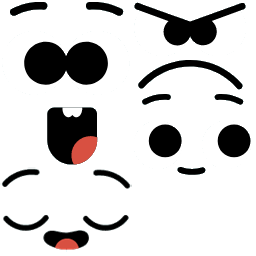
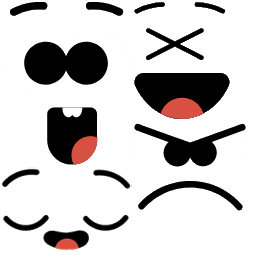
balance it fix sikit graphics layout

Changed region(s): [[0.5, 0.0, 1.0, 0.8438]]

diff --git a/ExportBalanceIt/data.js b/ExportBalanceIt/data.js
@@ -1,1 +1,1 @@
-{"project": [null,null,[[0,true,false,false,false,false,false,false,false,false],[1,false,true,true,true,true,true,true,true,true],[2,false,true,true,true,true,true,true,true,false],[3,false,true,true,true,true,true,true,true,false]],[["t0",2,false,[],0,0,null,[["Default",0,false,1,0,false,478299772580185,[["images/sprite-sheet0.png",73643,1,1,994,326,1,0.5,0.5,[],[],0],["images/sprite-sheet0.png",73643,501,677,169,169,1,0.5029585957527161,0.5029585957527161,[],[],0],["images/sprite-sheet0.png",73643,704,329,312,105,1,0.5,0.5047619342803955,[],[],0],["images/sprite-sheet0.png",73643,501,565,382,110,1,0.5,0.5,[],[],0],["images/sprite-sheet0.png",73643,1,565,498,281,1,0.5,0.5017793774604797,[],[],0],["images/sprite-sheet0.png",73643,1,329,701,234,1,0.5007132887840271,0.5,[],[],0]]]],[],false,false,167842222944082,[],null],["t1",3,false,[],0,0,null,null,[],false,false,410080740830842,[],null],["t2",0,false,[],0,0,null,null,[],false,false,297757167382111,[],null,[1]],["t3",2,false,[],2,0,null,[["Default",0,false,1,0,false,299663204428463,[["images/shape-sheet1.png",2192,1,1,313,105,1,0.5015974640846252,0.5047619342803955,[],[],0],["images/shape-sheet0.png",2313,347,1,156,155,1,0.5,0.5032258033752441,[],[],0],["images/shape-sheet1.png",2192,257,237,168,168,1,0.5,0.5,[],[-0.3511904776096344,-0.3511904776096344,0,-0.494047611951828,0.351190447807312,-0.3511904776096344,0.4940476417541504,0,0.351190447807312,0.351190447807312,0,0.4940476417541504,-0.3511904776096344,0.351190447807312,-0.494047611951828,0],0],["images/shape-sheet0.png",2313,214,1,131,306,1,0.5038167834281921,0.5,[],[],0],["images/shape-sheet0.png",2313,249,309,180,188,1,0.5,0.5,[],[],0],["images/shape-sheet0.png",2313,1,1,211,211,1,0.5023696422576904,0.5023696422576904,[],[-0.5023696422576904,-0.2180094420909882,-0.2180094420909882,-0.5023696422576904,0.2085307836532593,-0.5023696422576904,0.4976303577423096,-0.2180094420909882,0.4976303577423096,0.2085308432579041,0.2085308432579041,0.4976303577423096,-0.2180094420909882,0.4976303577423096,-0.5023696422576904,0.2085308432579041],0],["images/shape-sheet0.png",2313,1,309,246,140,1,0.5,0.5,[],[-0.2560976147651672,-0.5,0.2317074537277222,-0.5,0.5,0.5,-0.5,0.5],0],["images/shape-sheet1.png",2192,1,108,254,128,1,0.5,0.5,[],[-0.02755892276763916,-0.5,0.5,0.5,-0.5,0.5],0],["images/shape-sheet1.png",2192,257,108,253,127,1,0.5019763112068176,0.5039370059967041,[],[-0.5019763112068176,-0.5039370059967041,0.4980236887931824,-0.5039370059967041,0.01185756921768189,0.4960629940032959],0]]]],[["Physics",4,742213673293796],["DestroyOutsideLayout",5,821390267635051]],false,false,989745464851082,[],null],["t4",2,false,[],2,0,null,[["Default",0,false,1,0,false,417353779801979,[["images/faces-sheet1.png",7095,1,1,128,84,1,0.5,0.5,[],[],0],["images/faces-sheet0.png",11752,133,1,114,90,1,0.5,0.5,[],[],0],["images/faces-sheet0.png",11752,133,93,119,83,1,0.5042017102241516,0.5060241222381592,[],[],0],["images/faces-sheet1.png",7095,131,1,100,83,1,0.5,0.5060241222381592,[],[],0],["images/faces-sheet1.png",7095,131,86,70,86,1,0.5,0.5,[],[],0],["images/faces-sheet0.png",11752,1,168,130,83,1,0.5,0.5060241222381592,[],[],0],["images/faces-sheet0.png",11752,1,1,130,165,1,0.5,0.5030303001403809,[],[],0]]]],[["Pin",6,680793569707709],["DestroyOutsideLayout",5,712269904767727]],false,false,891090274573127,[],null],["t5",1,false,[],1,0,["images/tile.png",94,1],null,[["Physics",4,535847611371095]],false,false,777339235750981,[],null],["t6",1,false,[],0,0,["images/garisan.png",914,0],null,[],false,false,417810638556478,[],null]],[],[["Faces",1080,1920,false,"Faces",621882837171742,[["Layer 0",0,660128441753789,true,[203,225,225],false,1,1,1,false,false,1,0,0,[[[300,236,0,313,105,0,0,1,0.5015974640846252,0.5047619342803955,0,0,[]],3,8,[],[[0,0,0,1,0.5,0.2,0,0.01,0,1],[]],[0,"Default",0,1]],[[300,236,0,114,90,0,0,1,0.5,0.5,0,0,[]],4,9,[],[[],[]],[0,"Default",1,1]],[[366,518,0,156,155,0,0,1,0.5,0.5032258033752441,0,0,[]],3,10,[],[[0,0,0,1,0.5,0.2,0,0.01,0,1],[]],[0,"Default",1,1]],[[673,418,0,168,168,0,0,1,0.5,0.5,0,0,[]],3,11,[],[[0,0,0,1,0.5,0.2,0,0.01,0,1],[]],[0,"Default",2,1]],[[210,871,0,131,306,0,0,1,0.5038167834281921,0.5,0,0,[]],3,12,[],[[0,0,0,1,0.5,0.2,0,0.01,0,1],[]],[0,"Default",3,1]],[[570,936,0,180,188,0,0,1,0.5,0.5,0,0,[]],3,13,[],[[0,0,0,1,0.5,0.2,0,0.01,0,1],[]],[0,"Default",4,1]],[[860,768,0,211,211,0,0,1,0.5023696422576904,0.5023696422576904,0,0,[]],3,14,[],[[0,0,0,1,0.5,0.2,0,0.01,0,1],[]],[0,"Default",5,1]],[[241,1272,0,246,140,0,0,1,0.5,0.5,0,0,[]],3,15,[],[[0,0,0,1,0.5,0.2,0,0.01,0,1],[]],[0,"Default",6,1]],[[587,1444,0,254,128,0,0,1,0.5,0.5,0,0,[]],3,16,[],[[0,0,0,1,0.5,0.2,0,0.01,0,1],[]],[0,"Default",7,1]],[[907,1245,0,253,127,0,0,1,0.5019763112068176,0.5039370059967041,0,0,[]],3,17,[],[[0,0,0,1,0.5,0.2,0,0.01,0,1],[]],[0,"Default",8,1]],[[364,525,0,128,84,0,0,1,0.5,0.5,0,0,[]],4,18,[],[[],[]],[0,"Default",0,1]],[[673,418,0,119,83,0,0,1,0.5042017102241516,0.5060241222381592,0,0,[]],4,19,[],[[],[]],[0,"Default",2,1]],[[211,868,0,100,83,0,0,1,0.5,0.5060241222381592,0,0,[]],4,20,[],[[],[]],[0,"Default",3,1]],[[571,939,0,102.5806579589844,126.0276641845703,0,0,1,0.5,0.5,0,0,[]],4,21,[],[[],[]],[0,"Default",4,1]],[[242,1271,0,130,83,0,0,1,0.5,0.5060241222381592,0,0,[]],4,22,[],[[],[]],[0,"Default",5,1]],[[860,768,0,130,165,0,0,1,0.5,0.5030303001403809,0,0,[]],4,23,[],[[],[]],[0,"Default",6,1]],[[591,1459,0,128,84,0,0,1,0.5,0.5,0,0,[]],4,24,[],[[],[]],[0,"Default",0,1]],[[903,1229,0,130,83,0,0,1,0.5,0.5060241222381592,0,0,[]],4,25,[],[[],[]],[0,"Default",5,1]],[[-2,1697,0,1086,125,0,0,1,0,0,0,0,[]],5,26,[],[[1,0,0,1,0.5,0.2,0,0.01,0,1]],[0,0]],[[-5,1087,0,1127,-13,0,0,1,0,0,0,0,[]],6,28,[],[],[0,0]]],[]]],[],[]],["Level1",1080,1920,false,"Level1",387571350901243,[["Layer 0",0,550311674019265,true,[203,225,225],false,1,1,1,false,false,1,0,0,[[[300,236,0,313,105,0,0,1,0.5015974640846252,0.5047619342803955,0,0,[]],3,29,[],[[0,0,0,1,0.5,0.2,0,0.01,0,1],[]],[0,"Default",0,1]],[[300,236,0,114,90,0,0,1,0.5,0.5,0,0,[]],4,30,[],[[],[]],[0,"Default",1,1]],[[366,518,0,156,155,0,0,1,0.5,0.5032258033752441,0,0,[]],3,31,[],[[0,0,0,1,0.5,0.2,0,0.01,0,1],[]],[0,"Default",1,1]],[[673,418,0,168,168,0,0,1,0.5,0.5,0,0,[]],3,32,[],[[0,0,0,1,0.5,0.2,0,0.01,0,1],[]],[0,"Default",2,1]],[[210,871,0,131,306,0,0,1,0.5038167834281921,0.5,0,0,[]],3,33,[],[[0,0,0,1,0.5,0.2,0,0.01,0,1],[]],[0,"Default",3,1]],[[570,936,0,180,188,0,0,1,0.5,0.5,0,0,[]],3,34,[],[[0,0,0,1,0.5,0.2,0,0.01,0,1],[]],[0,"Default",4,1]],[[860,768,0,211,211,0,0,1,0.5023696422576904,0.5023696422576904,0,0,[]],3,35,[],[[0,0,0,1,0.5,0.2,0,0.01,0,1],[]],[0,"Default",5,1]],[[241,1272,0,246,140,0,0,1,0.5,0.5,0,0,[]],3,36,[],[[0,0,0,1,0.5,0.2,0,0.01,0,1],[]],[0,"Default",6,1]],[[587,1444,0,254,128,0,0,1,0.5,0.5,0,0,[]],3,37,[],[[0,0,0,1,0.5,0.2,0,0.01,0,1],[]],[0,"Default",7,1]],[[907,1245,0,253,127,0,0,1,0.5019763112068176,0.5039370059967041,0,0,[]],3,38,[],[[0,0,0,1,0.5,0.2,0,0.01,0,1],[]],[0,"Default",8,1]],[[364,525,0,128,84,0,0,1,0.5,0.5,0,0,[]],4,39,[],[[],[]],[0,"Default",0,1]],[[673,418,0,119,83,0,0,1,0.5042017102241516,0.5060241222381592,0,0,[]],4,40,[],[[],[]],[0,"Default",2,1]],[[211,868,0,100,83,0,0,1,0.5,0.5060241222381592,0,0,[]],4,41,[],[[],[]],[0,"Default",3,1]],[[571,939,0,102.5806579589844,126.0276641845703,0,0,1,0.5,0.5,0,0,[]],4,42,[],[[],[]],[0,"Default",4,1]],[[242,1271,0,130,83,0,0,1,0.5,0.5060241222381592,0,0,[]],4,43,[],[[],[]],[0,"Default",5,1]],[[860,768,0,130,165,0,0,1,0.5,0.5030303001403809,0,0,[]],4,44,[],[[],[]],[0,"Default",6,1]],[[591,1459,0,128,84,0,0,1,0.5,0.5,0,0,[]],4,45,[],[[],[]],[0,"Default",0,1]],[[903,1229,0,130,83,0,0,1,0.5,0.5060241222381592,0,0,[]],4,46,[],[[],[]],[0,"Default",5,1]],[[-2,1697,0,1086,125,0,0,1,0,0,0,0,[]],5,47,[],[[1,0,0,1,0.5,0.2,0,0.01,0,1]],[0,0]],[[-5,1087,0,1127,-13,0,0,1,0,0,0,0,[]],6,48,[],[],[0,0]]],[]]],[],[]],["MainMenu",1080,1920,false,"MainMenu",8873350371196689,[["Layer 0",0,8722530541249526,true,[203,225,225],false,1,1,1,false,false,1,0,0,[[[555,196,0,1415.026489257813,464.0831604003906,0,0,1,0.5,0.5,0,0,[]],0,0,[],[],[0,"Default",0,1]],[[207,1260,0,169,169,0,0,1,0.5029585957527161,0.5029585957527161,0,0,[]],0,1,[],[],[0,"Default",1,1]],[[204,977,0,312,105,0,0,1,0.5,0.5047619342803955,0,0,[]],0,2,[],[],[0,"Default",2,1]],[[704,812,0,498,281,0,0,1,0.5,0.5017793774604797,0,0,[]],0,3,[],[],[0,"Default",4,1]],[[758,1269,0,382,110,0,0,1,0.5,0.5,0,0,[]],0,4,[],[],[0,"Default",3,1]],[[539.307373046875,1741.212036132813,0,1086.72412109375,362.7581176757813,0,0,1,0.5007132887840271,0.5,0,0,[]],0,5,[],[],[0,"Default",5,1]],[[525,173,0,846.5878295898438,212.2024536132813,0,0,1,0.5,0.5,0,0,[]],1,6,[],[],["Balance It !",0,"60pt Franklin Gothic Heavy","rgb(255,255,255)",1,1,4,0,0]],[[273,1695,0,550,125,0,0,0.300000011920929,0,0,0,0,[]],5,27,[],[[1,0,0,1,0.5,0.2,0,0.01,0,1]],[0,0]]],[]]],[],[]]],[["MainMenu",[[0,null,false,null,707810541353011,[[2,7,null,1,false,false,false,834810981230721,false,[[4,0]]]],[[-1,8,null,164909783569268,false,[[6,"Faces"]]]]]]],["Faces",[[0,null,false,null,312350764040079,[[-1,9,null,1,false,false,false,955212199994108,false]],[],[[0,null,false,null,175238460057896,[[-1,10,null,0,true,false,false,643504744679145,false,[[4,4]]],[3,11,null,0,false,false,true,176987904773982,false,[[3,0],[0,[20,4,12,false,null]],[0,[20,4,13,false,null]]]]],[[4,14,"Pin",929214376768151,false,[[4,3],[3,0]]]]]]],[0,null,false,null,210750942512576,[[2,15,null,1,false,false,false,996071127838632,false],[6,16,null,0,false,false,false,609902321197275,false,[[8,4],[0,[20,2,17,false,null]]]]],[[-1,18,null,318795026597332,false,[[4,3],[5,[0,0]],[0,[20,2,19,false,null]],[0,[20,2,17,false,null]]]],[3,20,null,811442251122507,false,[[0,[19,21,[[19,22,[[0,0],[20,3,23,false,null]]]]]]]],[3,24,null,257243971573692,false,[[4,4],[5,[0,0]],[7,[0,0]]]],[4,14,"Pin",742498537828942,false,[[4,3],[3,0]]],[4,20,null,363990873144709,false,[[0,[19,21,[[19,22,[[0,0],[20,4,23,false,null]]]]]]]]]]]],["Level1",[]]],[],"media/",false,1080,1920,4,true,true,true,"1.0.0.0",true,false,0,1,49,false,true,1,true,"Balance It",0,[]]}
+{"project": [null,"MainMenu",[[0,false,true,true,true,true,true,true,true,false],[1,false,true,true,true,true,true,true,true,true],[2,false,true,true,true,true,true,true,true,false],[3,true,false,false,false,false,false,false,false,false]],[["t0",2,false,[],0,0,null,[["Default",0,false,1,0,false,478299772580185,[["images/sprite-sheet0.png",73643,1,1,994,326,1,0.5,0.5,[],[],0],["images/sprite-sheet0.png",73643,501,677,169,169,1,0.5029585957527161,0.5029585957527161,[],[],0],["images/sprite-sheet0.png",73643,704,329,312,105,1,0.5,0.5047619342803955,[],[],0],["images/sprite-sheet0.png",73643,501,565,382,110,1,0.5,0.5,[],[],0],["images/sprite-sheet0.png",73643,1,565,498,281,1,0.5,0.5017793774604797,[],[],0],["images/sprite-sheet0.png",73643,1,329,701,234,1,0.5007132887840271,0.5,[],[],0]]]],[],false,false,167842222944082,[],null],["t1",0,false,[],0,0,null,null,[],false,false,410080740830842,[],null],["t2",3,false,[],0,0,null,null,[],false,false,297757167382111,[],null,[1]],["t3",2,false,[],2,0,null,[["Default",0,false,1,0,false,299663204428463,[["images/shape-sheet1.png",2192,1,1,313,105,1,0.5015974640846252,0.5047619342803955,[],[],0],["images/shape-sheet0.png",2313,347,1,156,155,1,0.5,0.5032258033752441,[],[],0],["images/shape-sheet1.png",2192,257,237,168,168,1,0.5,0.5,[],[-0.3511900007724762,-0.3511900007724762,0,-0.494047611951828,0.3511899709701538,-0.3511900007724762,0.494047999382019,0,0.3511899709701538,0.3511899709701538,0,0.494047999382019,-0.3511900007724762,0.3511899709701538,-0.494047611951828,0],0],["images/shape-sheet0.png",2313,214,1,131,306,1,0.5038167834281921,0.5,[],[],0],["images/shape-sheet0.png",2313,249,309,180,188,1,0.5,0.5,[],[],0],["images/shape-sheet0.png",2313,1,1,211,211,1,0.5023696422576904,0.5023696422576904,[],[-0.5023696422576904,-0.2180096507072449,-0.2180096507072449,-0.5023696422576904,0.2085303664207459,-0.5023696422576904,0.4976303577423096,-0.2180096507072449,0.4976303577423096,0.2085303664207459,0.2085303664207459,0.4976303577423096,-0.2180096507072449,0.4976303577423096,-0.5023696422576904,0.2085303664207459],0],["images/shape-sheet0.png",2313,1,309,246,140,1,0.5,0.5,[],[-0.2560980021953583,-0.5,0.231706976890564,-0.5,0.5,0.5,-0.5,0.5],0],["images/shape-sheet1.png",2192,1,108,254,128,1,0.5,0.5,[],[-0.02755901217460632,-0.5,0.5,0.5,-0.5,0.5],0],["images/shape-sheet1.png",2192,257,108,253,127,1,0.5019763112068176,0.5039370059967041,[],[-0.5019763112068176,-0.5039370059967041,0.4980236887931824,-0.5039370059967041,0.01185768842697144,0.4960629940032959],0]]]],[["Physics",4,742213673293796],["DestroyOutsideLayout",5,821390267635051]],false,false,989745464851082,[],null],["t4",2,false,[],2,0,null,[["Default",0,false,1,0,false,417353779801979,[["images/faces-sheet1.png",5656,1,1,128,84,1,0.5,0.5,[],[],0],["images/faces-sheet0.png",11783,133,122,114,90,1,0.5,0.5,[],[],0],["images/faces-sheet1.png",5656,131,1,119,83,1,0.5042017102241516,0.5060241222381592,[],[],0],["images/faces-sheet1.png",5656,131,86,100,83,1,0.5,0.5060241222381592,[],[],0],["images/faces-sheet0.png",11783,133,1,98,119,1,0.5,0.5042017102241516,[],[],0],["images/faces-sheet0.png",11783,1,168,130,83,1,0.5,0.5060241222381592,[],[],0],["images/faces-sheet0.png",11783,1,1,130,165,1,0.5,0.5030303001403809,[],[],0]]]],[["Pin",6,680793569707709],["DestroyOutsideLayout",5,712269904767727]],false,false,891090274573127,[],null],["t5",1,false,[],1,0,["images/tile.png",94,1],null,[["Physics",4,535847611371095]],false,false,777339235750981,[],null],["t6",1,false,[],0,0,["images/garisan.png",914,0],null,[],false,false,417810638556478,[],null]],[],[["Faces",1080,1920,false,"Faces",621882837171742,[["Layer 0",0,660128441753789,true,[203,225,225],false,1,1,1,false,false,1,0,0,[[[300,236,0,313,105,0,0,1,0.5015974640846252,0.5047619342803955,0,0,[]],3,8,[],[[0,0,0,1,0.5,0.2,0,0.01,0,1],[]],[0,"Default",0,1]],[[300,236,0,114,90,0,0,1,0.5,0.5,0,0,[]],4,9,[],[[],[]],[0,"Default",1,1]],[[366,518,0,156,155,0,0,1,0.5,0.5032258033752441,0,0,[]],3,10,[],[[0,0,0,1,0.5,0.2,0,0.01,0,1],[]],[0,"Default",1,1]],[[673,418,0,168,168,0,0,1,0.5,0.5,0,0,[]],3,11,[],[[0,0,0,1,0.5,0.2,0,0.01,0,1],[]],[0,"Default",2,1]],[[210,871,0,131,306,0,0,1,0.5038167834281921,0.5,0,0,[]],3,12,[],[[0,0,0,1,0.5,0.2,0,0.01,0,1],[]],[0,"Default",3,1]],[[570,936,0,180,188,0,0,1,0.5,0.5,0,0,[]],3,13,[],[[0,0,0,1,0.5,0.2,0,0.01,0,1],[]],[0,"Default",4,1]],[[860,768,0,211,211,0,0,1,0.5023696422576904,0.5023696422576904,0,0,[]],3,14,[],[[0,0,0,1,0.5,0.2,0,0.01,0,1],[]],[0,"Default",5,1]],[[241,1272,0,246,140,0,0,1,0.5,0.5,0,0,[]],3,15,[],[[0,0,0,1,0.5,0.2,0,0.01,0,1],[]],[0,"Default",6,1]],[[587,1444,0,254,128,0,0,1,0.5,0.5,0,0,[]],3,16,[],[[0,0,0,1,0.5,0.2,0,0.01,0,1],[]],[0,"Default",7,1]],[[907,1245,0,253,127,0,0,1,0.5019763112068176,0.5039370059967041,0,0,[]],3,17,[],[[0,0,0,1,0.5,0.2,0,0.01,0,1],[]],[0,"Default",8,1]],[[364,525,0,128,84,0,0,1,0.5,0.5,0,0,[]],4,18,[],[[],[]],[0,"Default",0,1]],[[673,418,0,119,83,0,0,1,0.5042017102241516,0.5060241222381592,0,0,[]],4,19,[],[[],[]],[0,"Default",2,1]],[[211,868,0,100,83,0,0,1,0.5,0.5060241222381592,0,0,[]],4,20,[],[[],[]],[0,"Default",3,1]],[[571,939,0,98,119,0,0,1,0.5,0.5042017102241516,0,0,[]],4,21,[],[[],[]],[0,"Default",4,1]],[[242,1271,0,130,83,0,0,1,0.5,0.5060241222381592,0,0,[]],4,22,[],[[],[]],[0,"Default",5,1]],[[860,768,0,130,165,0,0,1,0.5,0.5030303001403809,0,0,[]],4,23,[],[[],[]],[0,"Default",6,1]],[[591,1459,0,128,84,0,0,1,0.5,0.5,0,0,[]],4,24,[],[[],[]],[0,"Default",0,1]],[[903,1229,0,130,83,0,0,1,0.5,0.5060241222381592,0,0,[]],4,25,[],[[],[]],[0,"Default",5,1]],[[-2,1697,0,1086,125,0,0,1,0,0,0,0,[]],5,26,[],[[1,0,0,1,0.5,0.2,0,0.01,0,1]],[0,0]],[[-5,1087,0,1127,-13,0,0,1,0,0,0,0,[]],6,28,[],[],[0,0]]],[]]],[],[]],["Level1",1080,1920,false,"Level1",387571350901243,[["Layer 0",0,550311674019265,true,[203,225,225],false,1,1,1,false,false,1,0,0,[[[300,236,0,313,105,0,0,1,0.5015974640846252,0.5047619342803955,0,0,[]],3,29,[],[[0,0,0,1,0.5,0.2,0,0.01,0,1],[]],[0,"Default",0,1]],[[300,236,0,114,90,0,0,1,0.5,0.5,0,0,[]],4,30,[],[[],[]],[0,"Default",1,1]],[[366,518,0,156,155,0,0,1,0.5,0.5032258033752441,0,0,[]],3,31,[],[[0,0,0,1,0.5,0.2,0,0.01,0,1],[]],[0,"Default",1,1]],[[673,418,0,168,168,0,0,1,0.5,0.5,0,0,[]],3,32,[],[[0,0,0,1,0.5,0.2,0,0.01,0,1],[]],[0,"Default",2,1]],[[210,871,0,131,306,0,0,1,0.5038167834281921,0.5,0,0,[]],3,33,[],[[0,0,0,1,0.5,0.2,0,0.01,0,1],[]],[0,"Default",3,1]],[[570,936,0,180,188,0,0,1,0.5,0.5,0,0,[]],3,34,[],[[0,0,0,1,0.5,0.2,0,0.01,0,1],[]],[0,"Default",4,1]],[[860,768,0,211,211,0,0,1,0.5023696422576904,0.5023696422576904,0,0,[]],3,35,[],[[0,0,0,1,0.5,0.2,0,0.01,0,1],[]],[0,"Default",5,1]],[[241,1272,0,246,140,0,0,1,0.5,0.5,0,0,[]],3,36,[],[[0,0,0,1,0.5,0.2,0,0.01,0,1],[]],[0,"Default",6,1]],[[587,1444,0,254,128,0,0,1,0.5,0.5,0,0,[]],3,37,[],[[0,0,0,1,0.5,0.2,0,0.01,0,1],[]],[0,"Default",7,1]],[[907,1245,0,253,127,0,0,1,0.5019763112068176,0.5039370059967041,0,0,[]],3,38,[],[[0,0,0,1,0.5,0.2,0,0.01,0,1],[]],[0,"Default",8,1]],[[364,525,0,128,84,0,0,1,0.5,0.5,0,0,[]],4,39,[],[[],[]],[0,"Default",0,1]],[[673,418,0,119,83,0,0,1,0.5042017102241516,0.5060241222381592,0,0,[]],4,40,[],[[],[]],[0,"Default",2,1]],[[211,868,0,100,83,0,0,1,0.5,0.5060241222381592,0,0,[]],4,41,[],[[],[]],[0,"Default",3,1]],[[571,939,0,143.6129150390625,174.3871154785156,0,0,1,0.5,0.5042017102241516,0,0,[]],4,42,[],[[],[]],[0,"Default",4,1]],[[242,1271,0,130,83,0,0,1,0.5,0.5060241222381592,0,0,[]],4,43,[],[[],[]],[0,"Default",5,1]],[[860,768,0,130,165,0,0,1,0.5,0.5030303001403809,0,0,[]],4,44,[],[[],[]],[0,"Default",6,1]],[[591,1459,0,128,84,0,0,1,0.5,0.5,0,0,[]],4,45,[],[[],[]],[0,"Default",0,1]],[[903,1229,0,130,83,0,0,1,0.5,0.5060241222381592,0,0,[]],4,46,[],[[],[]],[0,"Default",5,1]],[[-2,1697,0,1086,125,0,0,1,0,0,0,0,[]],5,47,[],[[1,0,0,1,0.5,0.2,0,0.01,0,1]],[0,0]],[[-5,1087,0,1127,-13,0,0,1,0,0,0,0,[]],6,48,[],[],[0,0]]],[]]],[],[]],["MainMenu",1080,1920,false,"MainMenu",8873350371196689,[["Layer 0",0,8722530541249526,true,[203,225,225],false,1,1,1,false,false,1,0,0,[[[555,196,0,1415.026489257813,464.0831604003906,0,0,1,0.5,0.5,0,0,[]],0,0,[],[],[0,"Default",0,1]],[[207,1260,0,169,169,0,0,1,0.5029585957527161,0.5029585957527161,0,0,[]],0,1,[],[],[0,"Default",1,1]],[[204,977,0,312,105,0,0,1,0.5,0.5047619342803955,0,0,[]],0,2,[],[],[0,"Default",2,1]],[[704,812,0,498,281,0,0,1,0.5,0.5017793774604797,0,0,[]],0,3,[],[],[0,"Default",4,1]],[[758,1269,0,382,110,0,0,1,0.5,0.5,0,0,[]],0,4,[],[],[0,"Default",3,1]],[[539.307373046875,1741.212036132813,0,1086.72412109375,362.7581176757813,0,0,1,0.5007132887840271,0.5,0,0,[]],0,5,[],[],[0,"Default",5,1]],[[525,173,0,846.5878295898438,212.2024536132813,0,0,1,0.5,0.5,0,0,[]],1,6,[],[],["Balance It !",0,"60pt Franklin Gothic Heavy","rgb(255,255,255)",1,1,4,0,0]],[[273,1695,0,550,125,0,0,0.300000011920929,0,0,0,0,[]],5,27,[],[[1,0,0,1,0.5,0.2,0,0.01,0,1]],[0,0]]],[]]],[],[]]],[["MainMenu",[[0,null,false,null,707810541353011,[[2,7,null,1,false,false,false,834810981230721,false,[[4,0]]]],[[-1,8,null,164909783569268,false,[[6,"Faces"]]]]]]],["Faces",[[0,null,false,null,312350764040079,[[-1,9,null,1,false,false,false,955212199994108,false]],[],[[0,null,false,null,175238460057896,[[-1,10,null,0,true,false,false,643504744679145,false,[[4,4]]],[3,11,null,0,false,false,true,176987904773982,false,[[3,0],[0,[20,4,12,false,null]],[0,[20,4,13,false,null]]]]],[[4,14,"Pin",929214376768151,false,[[4,3],[3,0]]]]]]],[0,null,false,null,210750942512576,[[2,15,null,1,false,false,false,996071127838632,false],[6,16,null,0,false,false,false,609902321197275,false,[[8,4],[0,[20,2,17,false,null]]]]],[[-1,18,null,318795026597332,false,[[4,3],[5,[0,0]],[0,[20,2,19,false,null]],[0,[20,2,17,false,null]]]],[3,20,null,811442251122507,false,[[0,[19,21,[[19,22,[[0,0],[20,3,23,false,null]]]]]]]],[3,24,null,257243971573692,false,[[4,4],[5,[0,0]],[7,[0,0]]]],[4,14,"Pin",742498537828942,false,[[4,3],[3,0]]],[4,20,null,363990873144709,false,[[0,[19,21,[[19,22,[[0,0],[20,4,23,false,null]]]]]]]]]]]],["Level1",[]]],[],"media/",false,1080,1920,4,true,true,true,"1.0.0.0",true,false,0,1,49,false,true,1,true,"Balance It",0,[]]}

diff --git a/ExportBalanceIt/c2runtime.js b/ExportBalanceIt/c2runtime.js
@@ -1321,4 +1321,4 @@ u.Ic=function(e){this.Vi=e.uid;this.kh=e.pa;this.Dd=e.pd;this.Jf=e.msa;this.tj=e
 if(y>this.Dd||4===this.mode&&y<this.Dd)u=Ve(this.Qa.x,this.Qa.y,this.u.x,this.u.y),e=this.Qa.x+Math.cos(u)*this.Dd,u=this.Qa.y+Math.sin(u)*this.Dd}else e=this.Qa.x+Math.cos(this.Qa.q+this.kh)*this.Dd,u=this.Qa.y+Math.sin(this.Qa.q+this.kh)*this.Dd;this.bd=y=Qe(this.Jf+(this.Qa.q-this.tj));0!==this.mode&&1!==this.mode&&3!==this.mode&&4!==this.mode||this.u.x===e&&this.u.y===u||(this.u.x=e,this.u.y=u,this.u.fa());0!==this.mode&&2!==this.mode||this.u.q===y||(this.u.q=y,this.u.fa())}};y.B=new function(){};
 e.prototype.iN=function(e,u){if(e){var y=e.ZJ(this.u);y&&(this.Qa=y,this.kh=Ve(y.x,y.y,this.u.x,this.u.y)-y.q,this.Dd=df(y.x,y.y,this.u.x,this.u.y),this.bd=this.Jf=this.u.q,this.tj=y.q,this.mode=u)}};y.tb=new e;y.Sa=new function(){}})();function qm(e){this.i=e}
 (function(){var e=qm.prototype;e.qb=function(e){this.behavior=e;this.i=e.i};e.qb.prototype.na=function(){};e.Wa=function(e,u){this.type=e;this.behavior=e.behavior;this.u=u;this.i=e.i};e=e.Wa.prototype;e.na=function(){};e.jd=function(){this.u.ia();var e=this.u.Ra,u=this.u.r.Ma;(0>e.right||0>e.bottom||e.left>u.width||e.top>u.height)&&this.i.xe(this.u)}})();
-function Pg(){return[Ug,Tg,Rg,Sg,cm,qm,pm,Ug.prototype.B.Pj,Qg.prototype.tb.JM,Qg.prototype.B.un,Qg.prototype.B.HM,Rg.prototype.B.hN,Rg.prototype.Sa.jg,Rg.prototype.Sa.kg,pm.prototype.tb.iN,Ug.prototype.B.Qj,Tg.prototype.B.BM,Ug.prototype.Sa.kg,Qg.prototype.tb.CM,Ug.prototype.Sa.jg,Rg.prototype.tb.kN,Qg.prototype.Sa.round,Qg.prototype.Sa.random,Rg.prototype.Sa.vM,Rg.prototype.tb.mN]};
+function Pg(){return[Sg,Tg,Rg,Ug,cm,qm,pm,Ug.prototype.B.Pj,Qg.prototype.tb.JM,Qg.prototype.B.un,Qg.prototype.B.HM,Rg.prototype.B.hN,Rg.prototype.Sa.jg,Rg.prototype.Sa.kg,pm.prototype.tb.iN,Ug.prototype.B.Qj,Tg.prototype.B.BM,Ug.prototype.Sa.kg,Qg.prototype.tb.CM,Ug.prototype.Sa.jg,Rg.prototype.tb.kN,Qg.prototype.Sa.round,Qg.prototype.Sa.random,Rg.prototype.Sa.vM,Rg.prototype.tb.mN]};

diff --git a/ExportBalanceIt/offline.js b/ExportBalanceIt/offline.js
@@ -1,5 +1,5 @@
 {
-	"version": 1659409913,
+	"version": 1659410448,
 	"fileList": [
 		"data.js",
 		"c2runtime.js",
